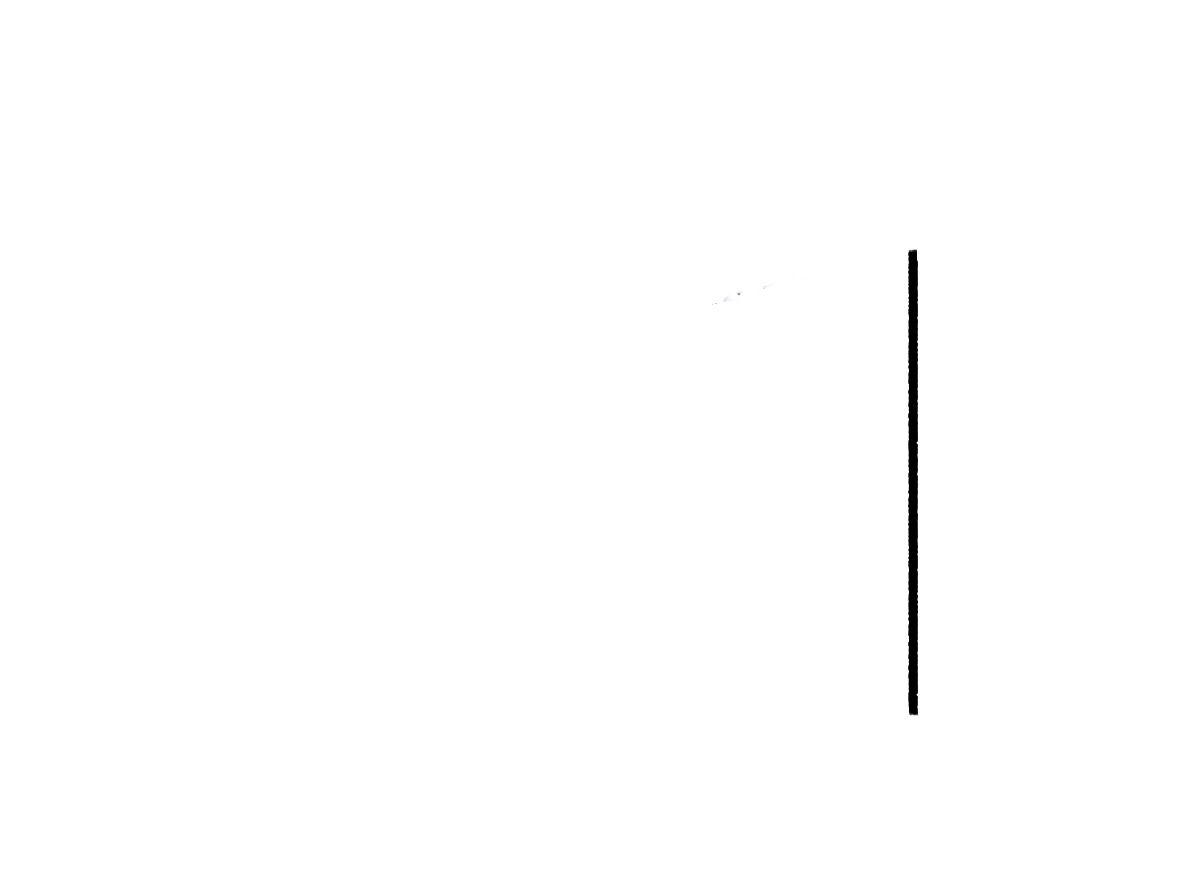
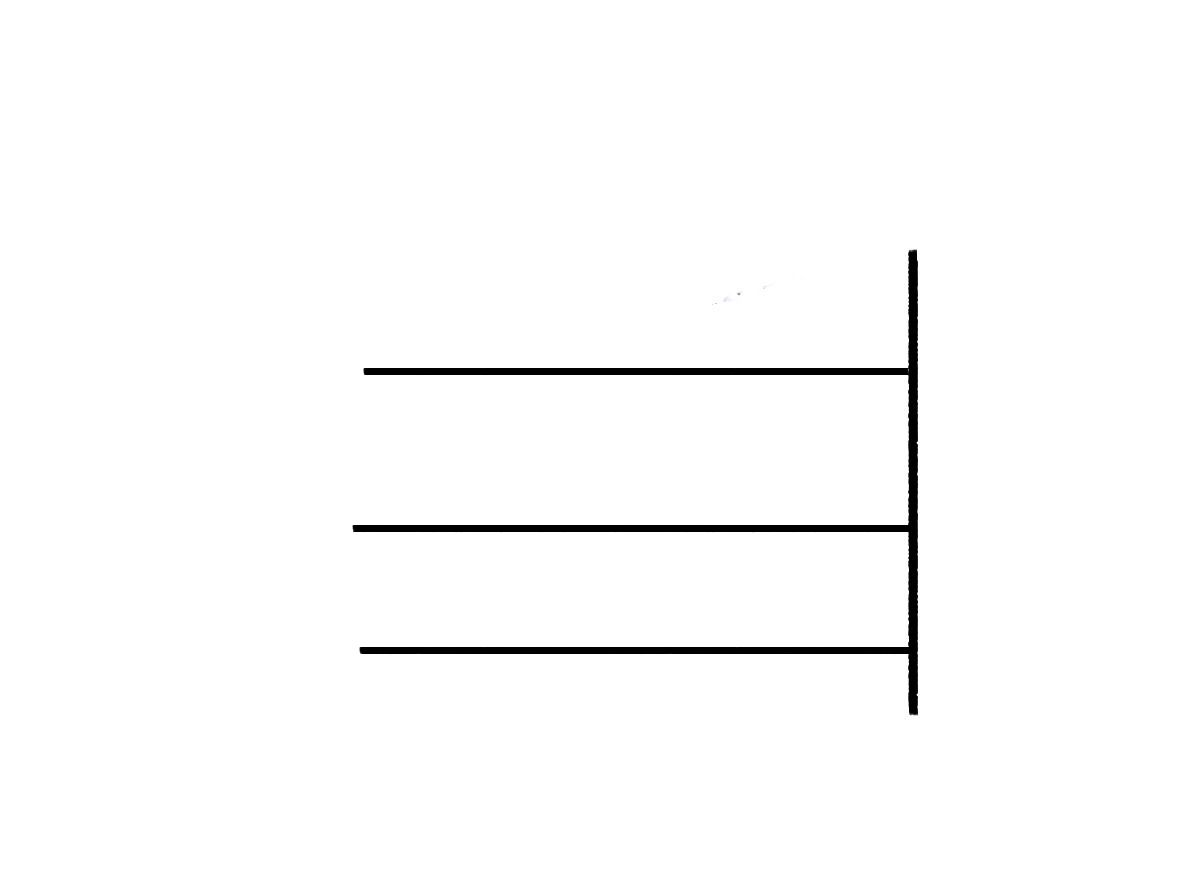
mutilple rectangles for different fields

Changed region(s): [[0.2775, 0.5876, 0.7708, 0.6186], [0.3083, 0.7423, 0.7708, 0.7732], [0.3083, 0.4021, 0.7708, 0.433]]

diff --git a/src/main.rs b/src/main.rs
@@ -1,19 +1,20 @@
 #![cfg_attr(not(debug_assertions), windows_subsystem = "windows")] // hide console window on Windows in release
 
+use certs::TextRect;
+use skia_safe::Point;
 use std::{fs, sync::Arc};
 
 use certs::{add_fonts, generate_certificate, Record};
 use eframe::{
     egui::{self, Button, Sense, Ui},
     emath::Align2,
-    epaint::{Color32, Pos2, Rect, Rounding, Stroke, Vec2},
+    epaint::{Color32, Rect, Rounding, Stroke, Vec2},
     App,
 };
 use egui_extras::{Column, RetainedImage, TableBuilder};
 use native_dialog::FileDialog;
 use rand::{distributions::Standard, prelude::*};
 use rayon::prelude::*;
-use skia_safe::Point;
 
 fn main() {
     let native_options = eframe::NativeOptions::default();
@@ -51,21 +52,6 @@ impl Default for CertApp {
     }
 }
 
-#[derive(Clone)]
-struct TextRect {
-    pub p1: Pos2,
-    pub p2: Pos2,
-}
-
-impl Default for TextRect {
-    fn default() -> Self {
-        Self {
-            p1: Pos2::default(),
-            p2: Pos2::default(),
-        }
-    }
-}
-
 struct Wrapper<T>(T);
 
 impl Distribution<Wrapper<Color32>> for Standard {
@@ -81,9 +67,6 @@ impl CertApp {
     }
     fn set_template(&mut self, template: Arc<Vec<u8>>) {
         self.template = template;
-    }
-    fn current_rect(&self) -> &TextRect {
-        &self.rects[self.current_rect].0
     }
     fn table(&mut self, ui: &mut Ui) {
         let table = TableBuilder::new(ui)
@@ -150,19 +133,22 @@ impl CertApp {
     fn parallel_certificates(&self) -> anyhow::Result<()> {
         {
             let records = self.records.clone();
-            let width = (self.current_rect().p1.x - self.current_rect().p2.x).abs();
-            let draw_pos =
-                Rect::from_two_pos(self.current_rect().p1, self.current_rect().p2).left_top();
+            let points = self
+                .rects
+                .iter()
+                .map(|r| {
+                    let points = r.0.min();
+                    (
+                        Point::new(points.p1.x, points.p1.y) * 2.5,
+                        (points.p1.x - points.p2.x).abs() * 2.5,
+                    )
+                })
+                .collect::<Vec<(Point, f32)>>();
             let template = self.template.clone();
 
             std::thread::spawn(move || {
-                records.par_iter().for_each(|record| {
-                    generate_certificate(
-                        &record,
-                        Point::new(draw_pos.x, draw_pos.y) * 2.5,
-                        width,
-                        template.clone(),
-                    );
+                records.par_iter().for_each(move |record| {
+                    generate_certificate(record, points.clone(), template.clone());
                 });
             });
         }
@@ -211,14 +197,7 @@ impl App for CertApp {
                 .sense(Sense::drag());
                 let image_res = ui.add(image);
 
-                // window.width - img.width will give us: right border + left border, we divide
-                // by 2 to get a single border space
-                let border_diff = (ctx.used_rect().width() - image.size().x) / 2.;
-                // the vertical diff is: top border + bottom border + (other elements)
-                // if we remove the two borders, we get the diff of the elements and title
-                let title_diff = ctx.used_rect().height() - image.size().y - (border_diff * 2.0);
-                let offset = Vec2::new(border_diff, border_diff + title_diff)
-                    + ctx.used_rect().min.to_vec2();
+                let offset = image_res.rect.min.to_vec2();
 
                 if image_res.drag_started() {
                     if let Some(position) = image_res.interact_pointer_pos() {

diff --git a/src/lib.rs b/src/lib.rs
@@ -1,5 +1,5 @@
 use eframe::egui::{FontData, FontDefinitions};
-use eframe::epaint::FontFamily;
+use eframe::epaint::{FontFamily, Pos2};
 use serde::Deserialize;
 use skia_safe::textlayout::{FontCollection, ParagraphBuilder, ParagraphStyle, TextStyle};
 use skia_safe::{
@@ -16,16 +16,41 @@ pub struct Record {
     pub email: String,
 }
 
-pub fn generate_certificate(record: &Record, position: Point, width: f32, template: Arc<Vec<u8>>) {
+#[derive(Clone)]
+pub struct TextRect {
+    pub p1: Pos2,
+    pub p2: Pos2,
+}
+
+impl Default for TextRect {
+    fn default() -> Self {
+        Self {
+            p1: Pos2::default(),
+            p2: Pos2::default(),
+        }
+    }
+}
+
+impl TextRect {
+    pub fn min(&self) -> Self {
+        Self {
+            p1: self.p1.min(self.p2),
+            p2: self.p1.max(self.p2),
+        }
+    }
+}
+
+pub fn generate_certificate(record: &Record, points: Vec<(Point, f32)>, template: Arc<Vec<u8>>) {
     let filename = format!("{}-{}", record.id, record.name);
     let data = Data::new_copy(&template);
     let image = Image::from_encoded(data).unwrap();
     let mut surface = Surface::new_raster_n32_premul(image.dimensions()).unwrap();
     let mut canvas = surface.canvas();
     canvas.draw_image(image, Point::new(0., 0.), Some(&Paint::default()));
-    // draw_text(&mut canvas, &record.id, position, width);
-    draw_text(&mut canvas, &record.name, position, width);
-    // draw_text(&mut canvas, &record.email, Point::new(600., 400.));
+    for (field, point) in [&record.id, &record.name, &record.email].iter().zip(points) {
+        let width = point.1;
+        draw_text(&mut canvas, field, point.0, width);
+    }
     save_as(&mut surface, &filename);
     println!("saved!");
 }
